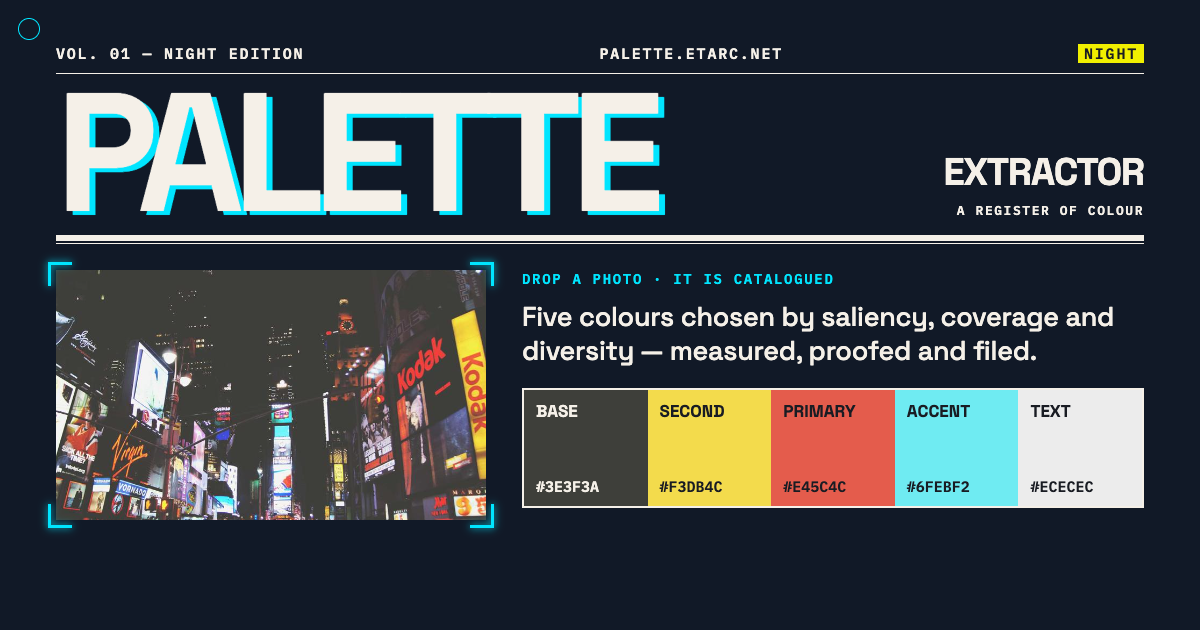
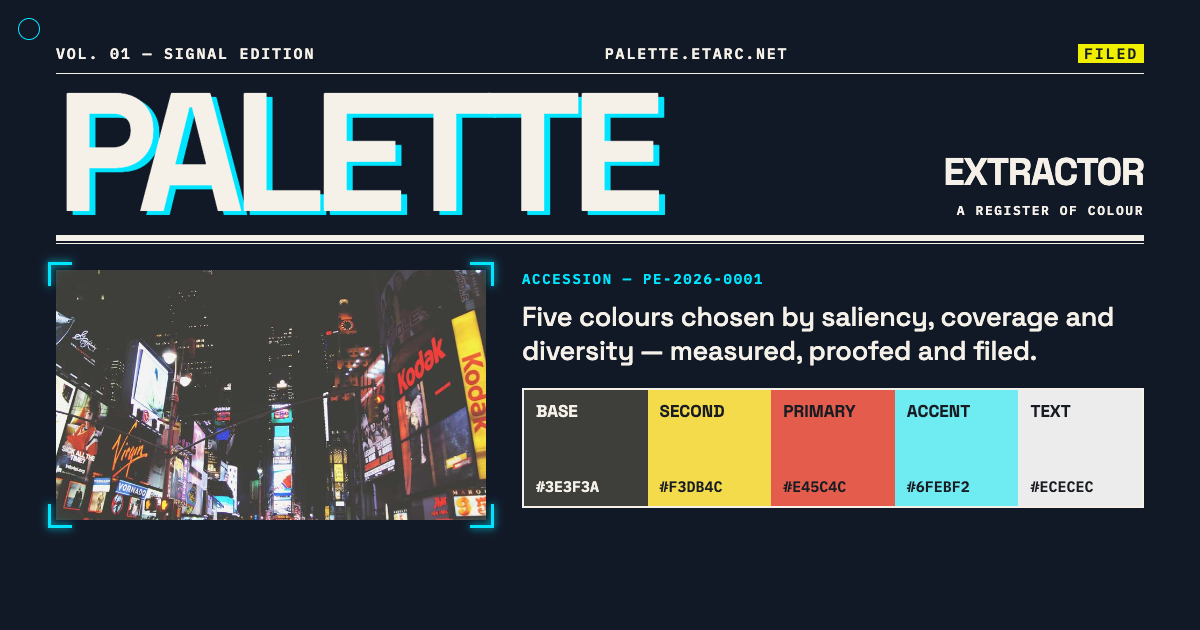
Update README, screenshot and share image for one edition

diff --git a/README.md b/README.md
@@ -4,18 +4,17 @@
 
 Live: [palette.etarc.net](https://palette.etarc.net)
 
-| Day edition | Night edition |
-| --- | --- |
-| ![Day edition](screenshot-day.jpg) | ![Night edition](screenshot-night.jpg) |
+![Palette Extractor — Signal Edition](screenshot.jpg)
 
 ## Editions
 
-The homepage is laid out like a magazine feature about the image you deposit: a masthead, an opener whose headline is the name of the photo's primary colour, then numbered figures for the palette, its contrast relations, a print proof and the archive.
+There are two editions: the **Signal Edition** (the homepage) and the **Classic edition** it grew out of.
 
-- **Day / Night.** One layout, two sets of colour tokens: warm paper and ink by day, Night City blue-black with a cyan signal by night. Your choice is remembered. Only the interface changes — photos, swatches and every computed value stay as extracted.
+The Signal Edition is laid out like a magazine feature about the image you deposit — a masthead, an opener whose headline is the name of the photo's primary colour, then numbered figures for the palette, its contrast relations, and a print proof with the archive — set on a Night City blue-black sheet with one cyan signal colour. The interface stays quiet so the extracted colours are always the loudest thing on the page. Design rules live in [DESIGN.md](DESIGN.md).
+
 - **The lens.** In Fig. 1 the original photo is shown; a small frame drifts across it (or follows your mouse) and shows the same spot in its catalogued colours, with the role it belongs to.
 - **Press marks.** Registration marks at the corners, a specimen strip of the current palette in the margin, and the OKLCH value of every swatch.
-- **Cover export.** SAVE IMG prints the current object as a 4:5 magazine cover in the current edition's inks.
+- **Cover export.** SAVE IMG prints the current object as a 4:5 magazine cover.
 - **Archive previews.** Hover an archived palette to see its source photo; hover a matrix cell for a type specimen of that pair. Thumbnails are kept only in your browser (localStorage `palette.thumbs`) and can be cleared from the page.
 - **Classic edition.** The original page, built in April 2026, is kept at [palette.etarc.net/classic](https://palette.etarc.net/classic). Both editions share the same archive and favourites.
 
@@ -62,7 +61,8 @@ node --test test/color.test.js   # unit tests for the colour logic
 | `main.js` | The app UI (panels, exports, history) — shared by both editions |
 | `index.html` | Magazine edition (homepage) |
 | `register.css` / `register.js` | Accession record and the colour plates under the sheet |
-| `edition.css` / `edition.js` | Magazine layout, Day/Night tokens, Fig. 1 lens, press marks |
+| `edition.css` / `edition.js` | Magazine layout, colour tokens, Fig. 1 lens, press marks |
+| `DESIGN.md` | Design rules: tokens, principles, rejected directions, working agreement |
 | `classic.html` / `color-classic.js` | The original page, with its original algorithm frozen |
 | `previews.js`, `cover.js` | Archive/matrix previews; magazine-cover export |
 | `follow.js`, `fx.js` | Cursor follow and screen-signal effects (no dependencies) |
